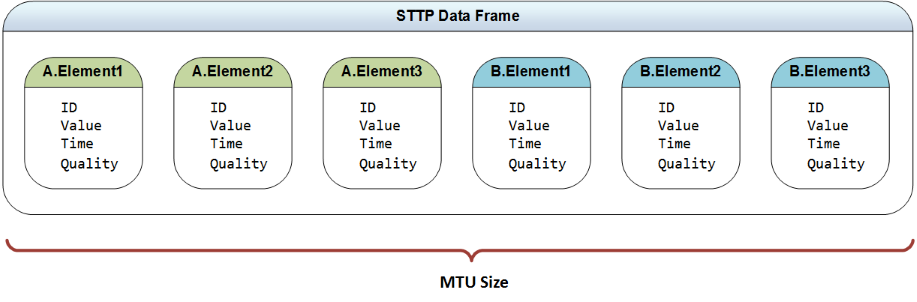
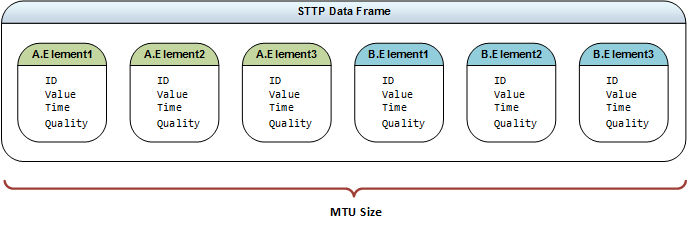
Adjusted image sizes and updated rendering for centered images

diff --git a/Sections/Overview.md b/Sections/Overview.md
@@ -18,12 +18,12 @@ For smaller sized, discrete data structures, the existing available serializatio
 
 In terms of Internet Protocol (IP), all frames of data to be transmitted that exceed the negotiated maximum transmission unit (MTU) size (typically 1,500 bytes for Ethernet networks <sup>[[11](References.md#user-content-ref11)]</sup>) are divided into multiple fragments where each fragment is called a network packet.
 
-<p align="center">
+<center>
 
 ![Packet Fragmentation](Images/packet-fragmentation.png)
 
-<br/><sup>Diagram 1</sup>
-</p>
+<br /><sup>Diagram 1</sup>
+</center>
 
 The impacts of large frames on an IP network are determined by the number of network packets required to send the frame and the fact that IP is inherently unreliable by design. Network packets can only be transmitted over a connection one packet at a time; when two or more network packets arrive for transmission at the same time on any physical network media, the result is a collision. When a collision occurs, only one packet gets sent and the others get dropped <sup>[[12](References.md#user-content-ref12)]</sup>. IP defines a variety of different transport protocols for network packet transmission, each of which behave in different manners when dealing with packet loss. Consequently, many of the impacts a large frame has on an IP network is dependent upon the transport protocol used to send the frame.
 
@@ -61,23 +61,23 @@ Instead of serializing an entire data structure as a unit, STTP is designed to p
 
 > :information_source: For the purposes of this specification a data element, its identification and any associated state, e.g., time and quality, will be referred to as a _data point_.  
 
-<p align="center">
+<center>
 
 ![Mapping Data Structure Elements to Data Points](Images/data-element-to-points.png)
 
-<br/><sup>Diagram 2</sup>
-</p>
+<br /><sup>Diagram 2</sup>
+</center>
 
 To resolve issues with large frame impacts on IP based networks, a primary tenet of the STTP design strategy is to reduce fragmentation; as a result, STTP intentionally limits the number of data points that will be grouped together to form a frame to ensure its size is optimized for transmission over an IP network with minimal fragmentation.
 
 Because each data point us uniquely identified, the elements that appear from one frame to another are not fixed allowing interleaving of data from multiple simultaneous data exchanges - this notion supports the delivery of any number of data structures where each can have a different publication interval.
 
-<p align="center">
+<center>
 
 ![Mapping Data Structure Elements to Data Points](Images/sttp-data-frame.png)
 
-<br/><sup>Diagram 3</sup>
-</p>
+<br /><sup>Diagram 3</sup>
+</center>
 
 > :warning: While it is possible to always target zero fragmentation by making sure the frame size is below the current MTU size, the protocol should allow tuning for some fragmentation to accommodate different deployment scenarios and use cases, i.e., allowing target frame sizes that are larger than the current MTU size. For deployments in high-performance network environments, over all data collision based loss may be statistically the same for frame sizes that are a few multiples of the MTU.
 
